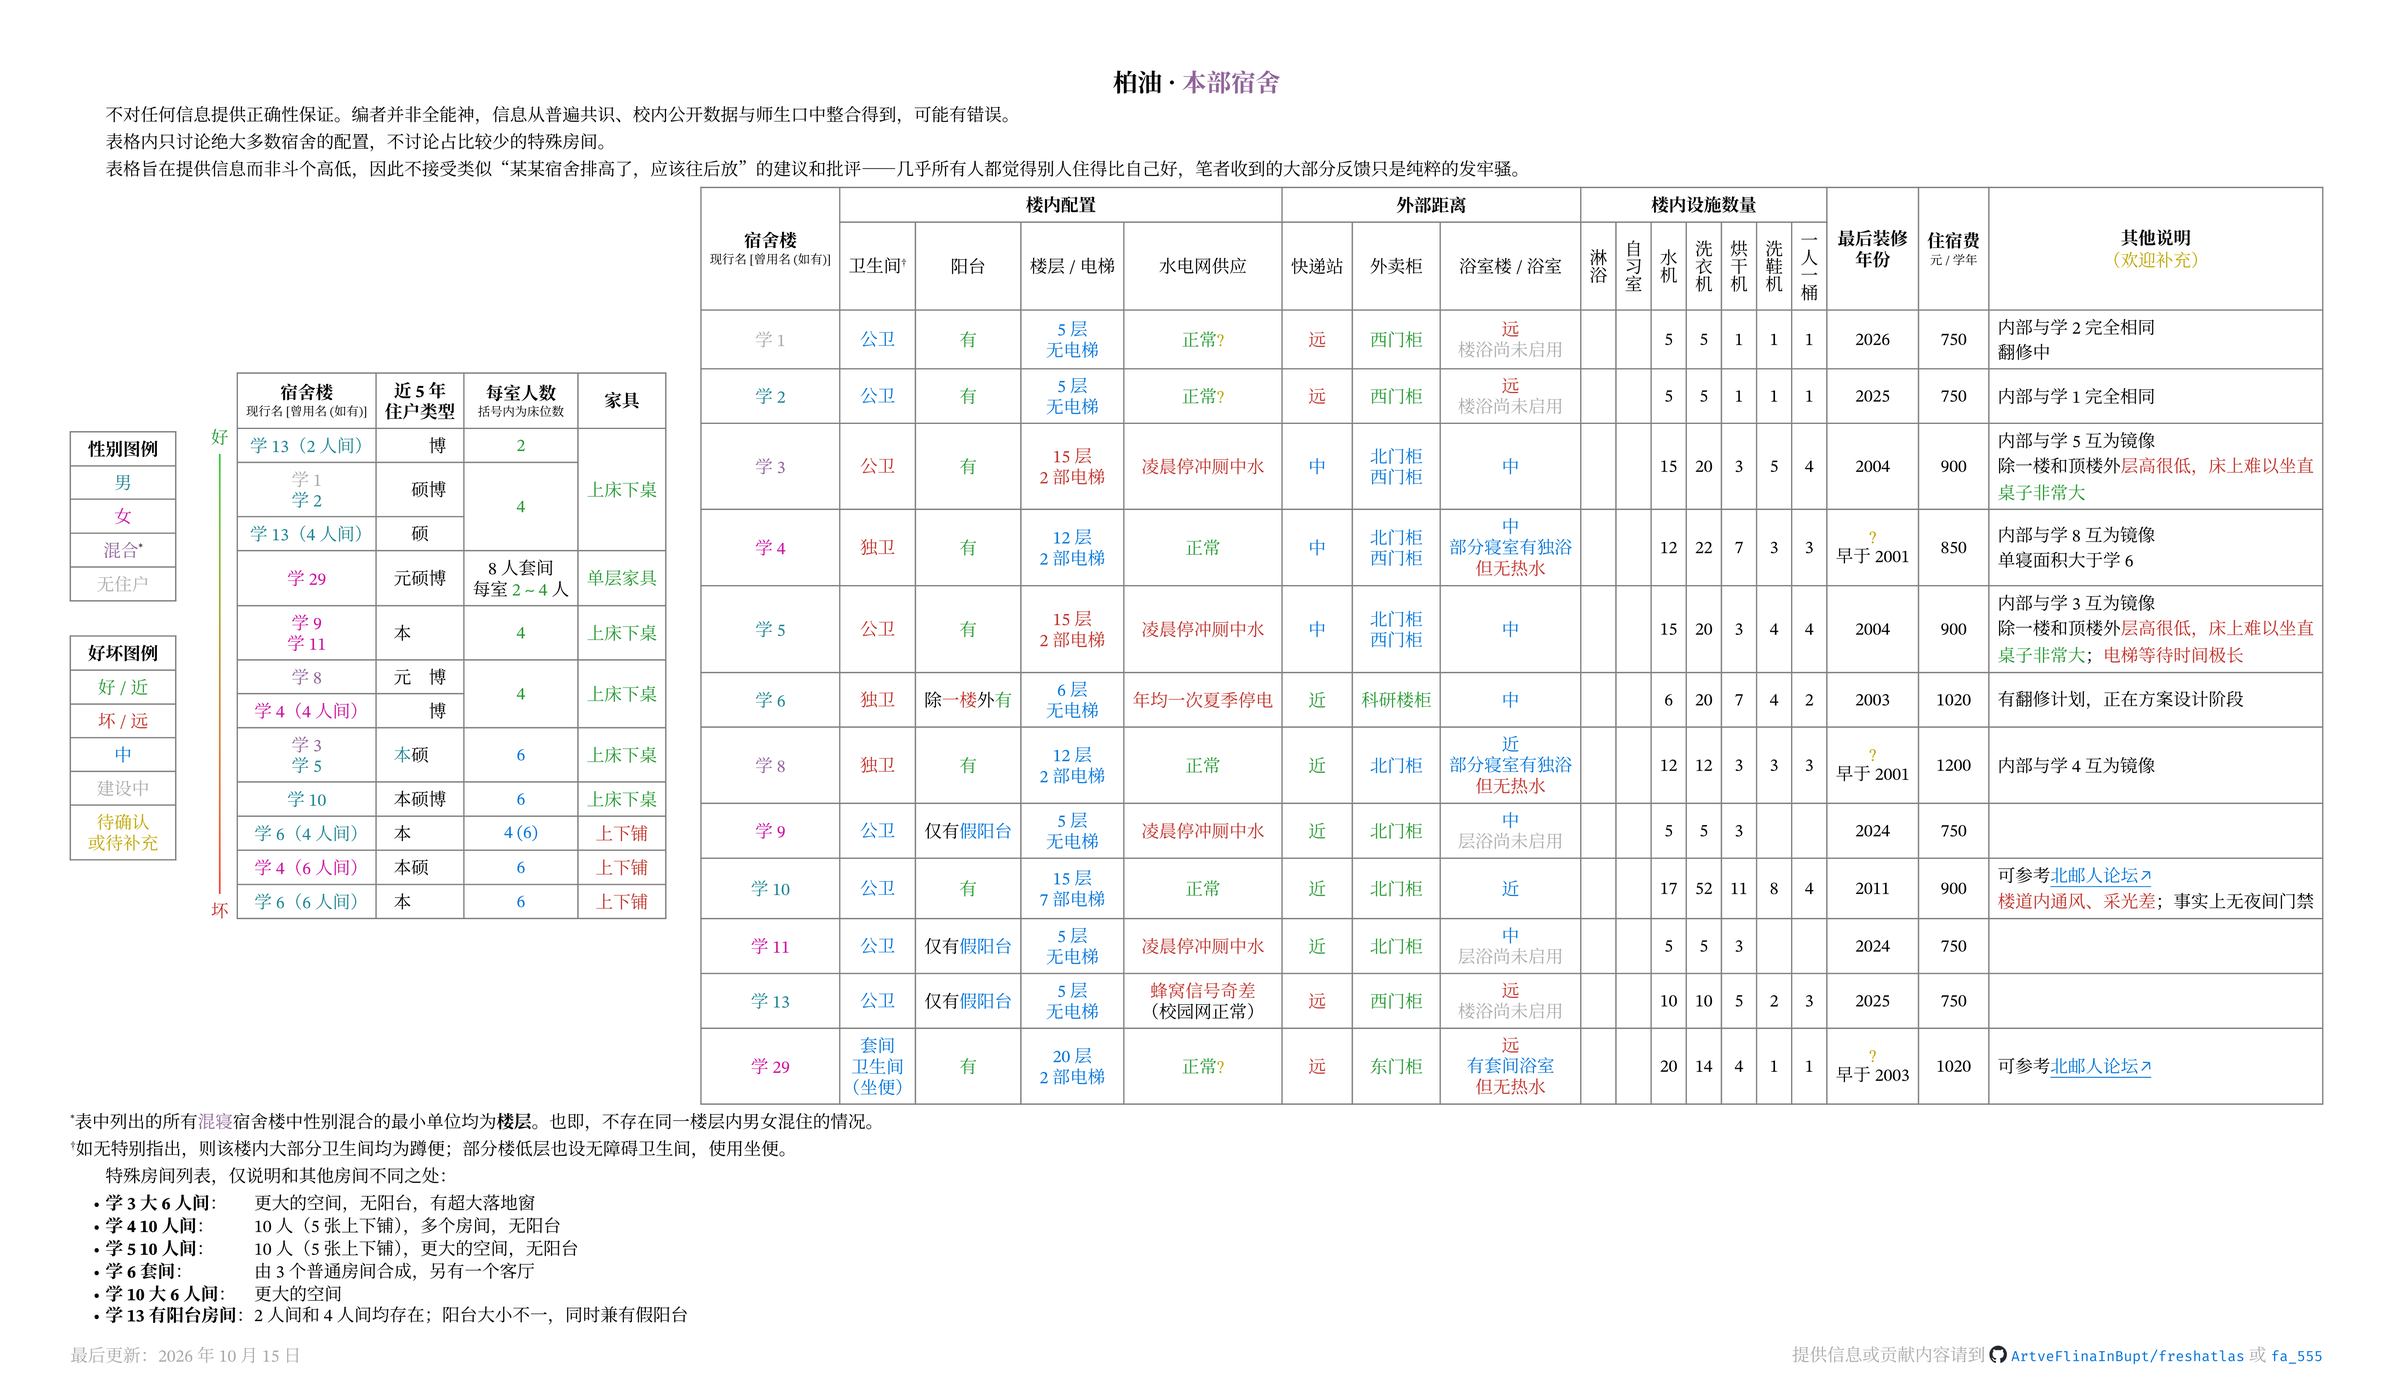
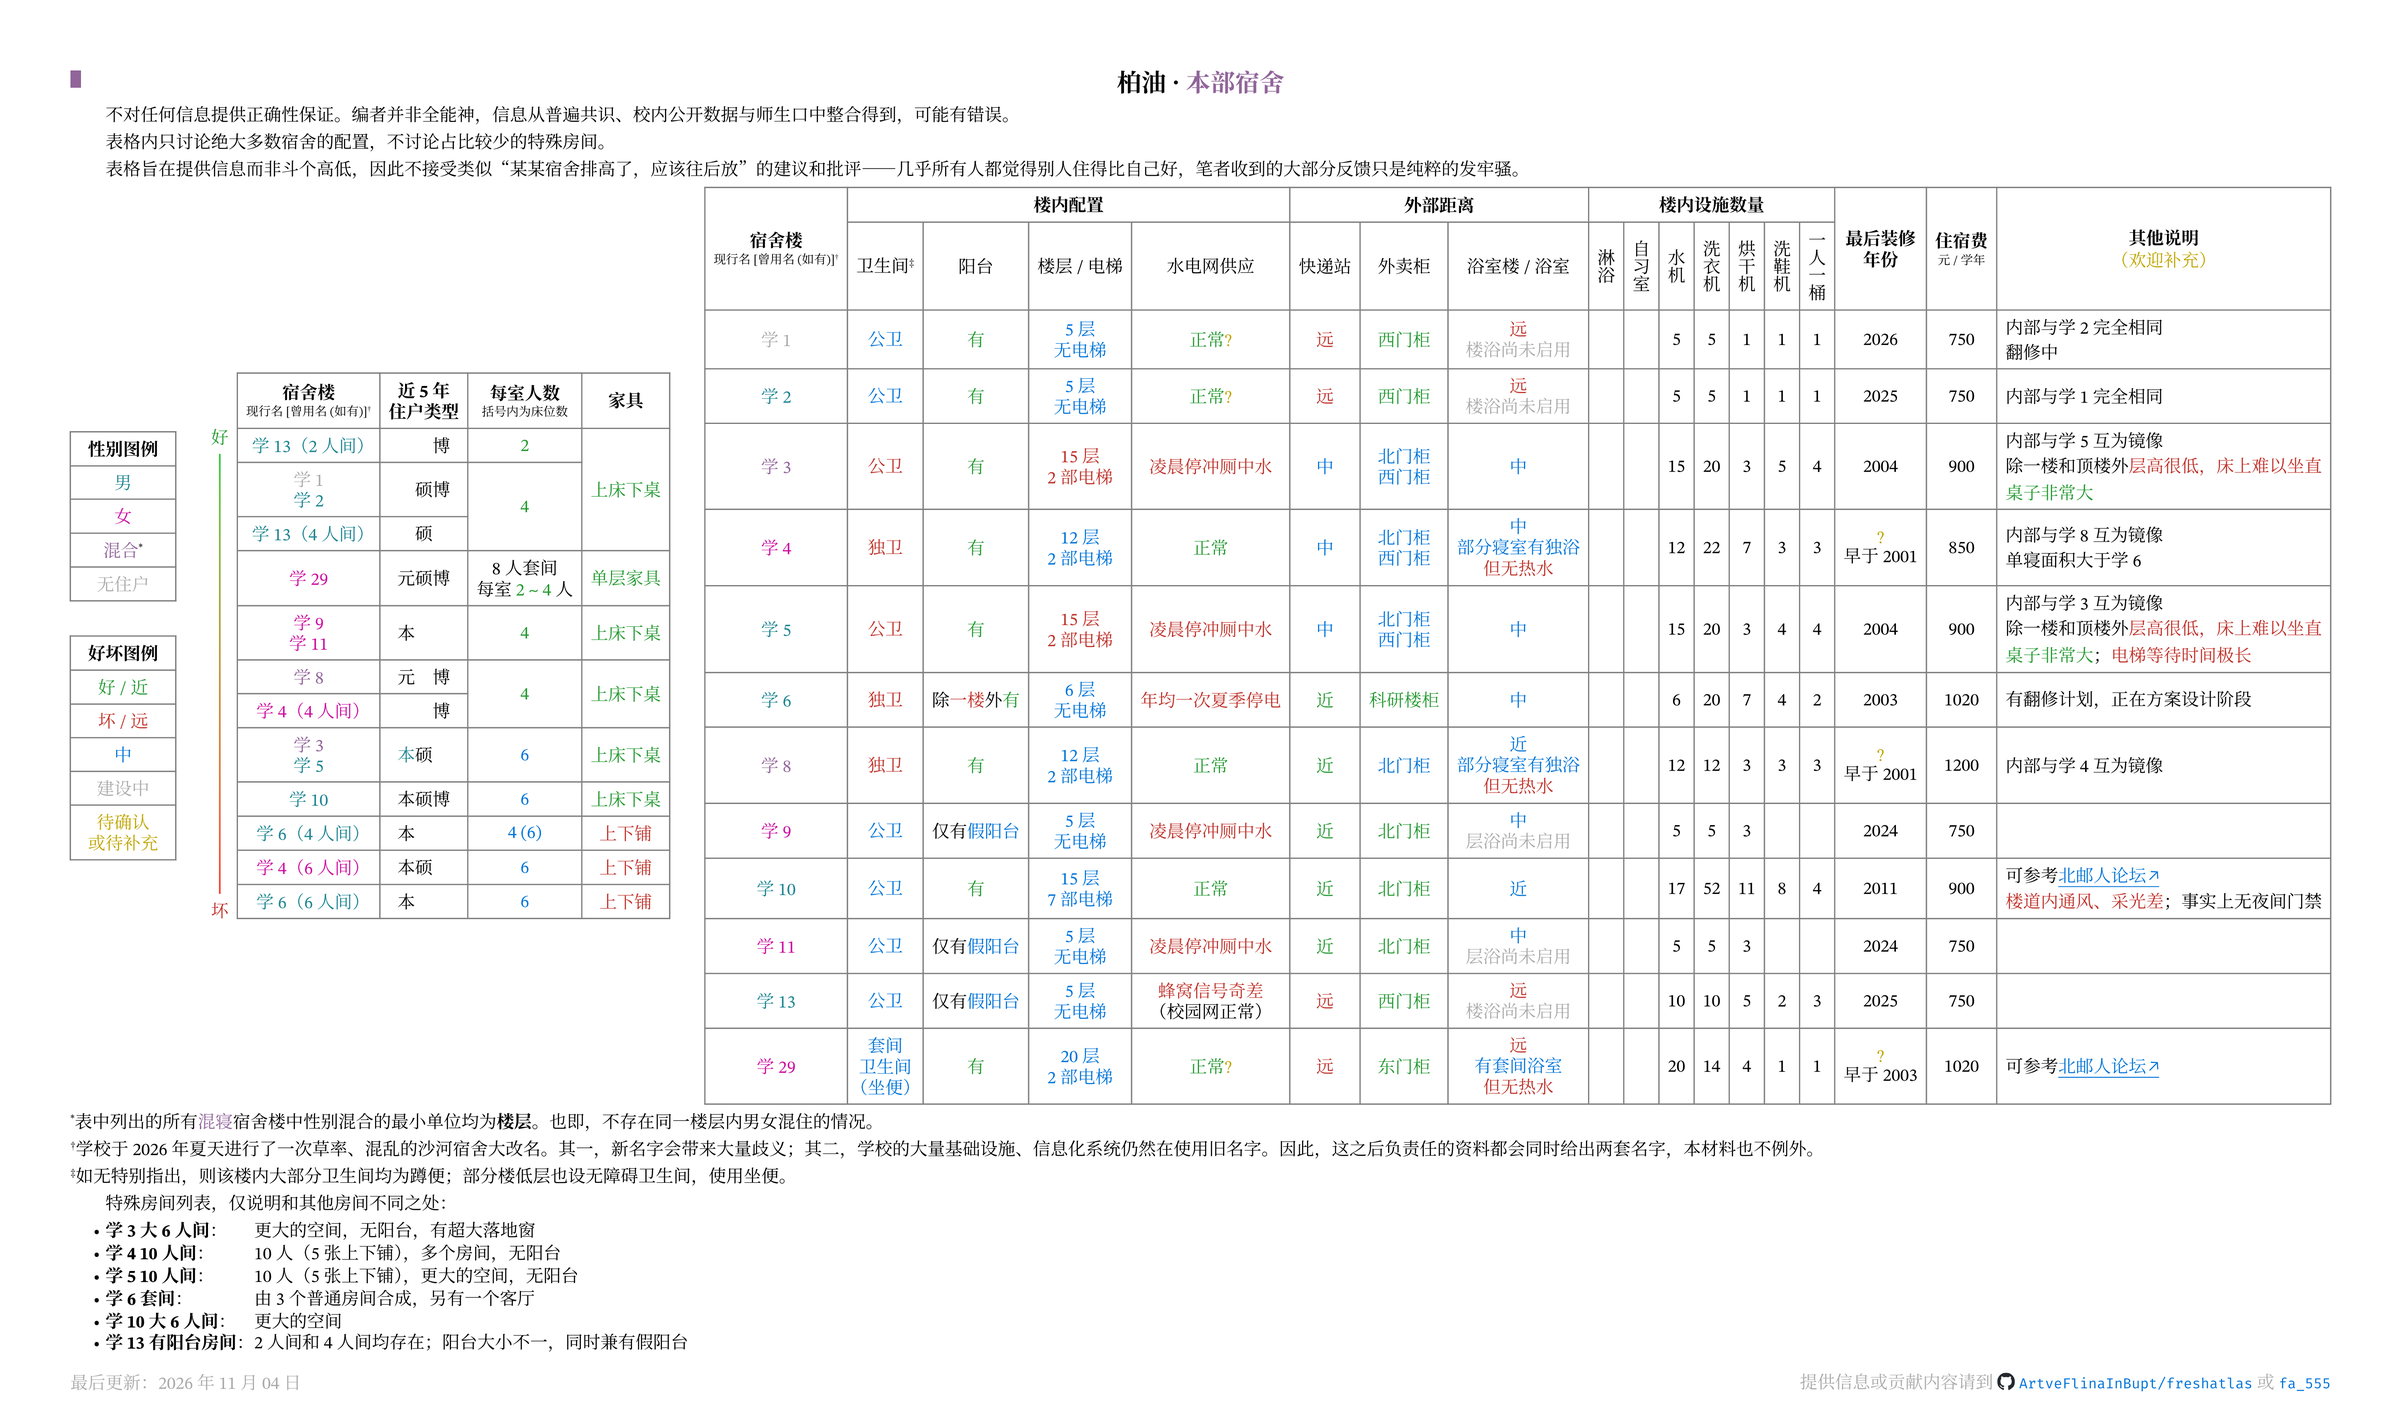
docs: 同步柏油图谱宿舍对比图（沙河 / 本部分图）
来源：https://github.com/ArtveFlinaInBupt/freshatlas/commit/c19195f24260d7327a329d284ffd04e331f41dee

diff --git a/src/content/docs/海淀校区/住宿条件.md b/src/content/docs/海淀校区/住宿条件.md
@@ -21,7 +21,7 @@ description: 住宿条件
 
 > 图片来源：[BUPT-freshatlas](https://github.com/ArtveFlinaInBupt/freshatlas)，原图含沙河、本部两校区，此处已拆分为仅本部部分。以 CC BY-NC-SA 4.0 提供。
 
-<!-- @byrdocs-bot 上图（海淀/本部宿舍逐楼对比）文字版，供无法读图的助手参考；信息以图片为准。图中含两张表：左侧“房型表格”纵向按“好→差”排序（左侧有好→坏渐变条）；右侧“楼宇表格”按楼号排列，逐项给出楼内配置、外部距离与设施数量。颜色含义已转为文字：(好)=好/近，(差)=坏/远，(中)=中，(建设中)=建设中/无住户（灰色），(待确认)=待确认或待补充；性别用“男/女/混”标注，“无住户”表示当前无人居住。脚注用 * † 标记。
+<!-- @byrdocs-bot 上图（海淀/本部宿舍逐楼对比）文字版，供无法读图的助手参考；信息以图片为准。图中含两张表：左侧“房型表格”纵向按“好→差”排序（左侧有好→坏渐变条）；右侧“楼宇表格”按楼号排列，逐项给出楼内配置、外部距离与设施数量。颜色含义已转为文字：(好)=好/近，(差)=坏/远，(中)=中，(建设中)=建设中/无住户（灰色），(待确认)=待确认或待补充；性别用“男/女/混”标注，“无住户”表示当前无人居住。脚注用 * † ‡ 标记。
 
 房型表格（从好到差；列：近 5 年住户类型 / 每室人数（括号内为床位数） / 家具）：
 1. 学 13（2 人间）（男）：博；2 人(好)；上床下桌(好)。
@@ -37,7 +37,7 @@ description: 住宿条件
 11. 学 4（6 人间）（女）：本硕；6 人(中)；上下铺(差)。
 12. 学 6（6 人间）（男）：本；6 人(中)；上下铺(差)。
 
-楼宇表格（列：卫生间† / 阳台 / 楼层与电梯 / 水电网供应 | 快递站 / 外卖柜 / 浴室楼或浴室 | 楼内设施数量：水机 / 洗衣机 / 烘干机 / 洗鞋机 / 一人一桶（淋浴、自习室两列本部均未填） | 最后装修年份 / 住宿费（元/学年） / 其他说明）：
+楼宇表格（列：卫生间‡ / 阳台 / 楼层与电梯 / 水电网供应 | 快递站 / 外卖柜 / 浴室楼或浴室 | 楼内设施数量：水机 / 洗衣机 / 烘干机 / 洗鞋机 / 一人一桶（淋浴、自习室两列本部均未填） | 最后装修年份 / 住宿费（元/学年） / 其他说明）：
 1. 学 1（无住户）：公卫(中)；有阳台(好)；5 层无电梯(中)；水电网正常(好，待确认)；快递站远(差)；外卖西门柜(好)；浴室远(差)，楼浴尚未启用(建设中)；水机 5，洗衣机 5，烘干机 1，洗鞋机 1，一人一桶 1；最后装修 2026；住宿费 750；说明：内部与学 2 完全相同；翻修中。
 2. 学 2（男）：公卫(中)；有阳台(好)；5 层无电梯(中)；水电网正常(好，待确认)；快递站远(差)；外卖西门柜(好)；浴室远(差)，楼浴尚未启用(建设中)；水机 5，洗衣机 5，烘干机 1，洗鞋机 1，一人一桶 1；最后装修 2025；住宿费 750；说明：内部与学 1 完全相同。
 3. 学 3（混）：公卫(差)；有阳台(好)；15 层 2 部电梯(差)；凌晨停冲厕中水(差)；快递站中(中)；外卖北门柜、西门柜(中)；浴室中(中)；水机 15，洗衣机 20，烘干机 3，洗鞋机 5，一人一桶 4；最后装修 2004；住宿费 900；说明：内部与学 5 互为镜像；除一楼和顶楼外层高很低、床上难以坐直(差)；桌子非常大(好)。
@@ -49,11 +49,12 @@ description: 住宿条件
 9. 学 10（男）：公卫(中)；有阳台(好)；15 层 7 部电梯(中)；水电网正常(好)；快递站近(好)；外卖北门柜(好)；浴室近(中)；水机 17，洗衣机 52，烘干机 11，洗鞋机 8，一人一桶 4；最后装修 2011；住宿费 900；说明：可参考北邮人论坛（https://bbs.byr.cn/#!article/Picture/3382014）；楼道内通风、采光差(差)；事实上无夜间门禁。
 10. 学 11（女）：公卫(中)；仅有假阳台(中)；5 层无电梯(中)；凌晨停冲厕中水(差)；快递站近(好)；外卖北门柜(好)；浴室中(中)，层浴尚未启用(建设中)；水机 5，洗衣机 5，烘干机 3，洗鞋机、一人一桶未填；最后装修 2024；住宿费 750；说明无。
 11. 学 13（男）：公卫(中)；仅有假阳台(中)；5 层无电梯(中)；蜂窝信号奇差(差)（校园网正常）；快递站远(差)；外卖西门柜(好)；浴室远(差)，楼浴尚未启用(建设中)；水机 10，洗衣机 10，烘干机 5，洗鞋机 2，一人一桶 3；最后装修 2025；住宿费 750；说明无。
-12. 学 29（女）：套间卫生间（坐便）(中)；有阳台(好)；20 层 2 部电梯(中)；水电网正常(好，待确认)；快递站远(差)；外卖东门柜(好)；浴室远(差)，有套间浴室(中)但无热水；水机 20，洗衣机 14，烘干机 4，洗鞋机 1，一人一桶 1；最后装修早于 2003(待确认)；住宿费 1020；说明：可参考北邮人论坛（https://bbs.byr.cn/#!article/Picture/3377378）。
+12. 学 29（女）：套间卫生间（坐便）(中)；有阳台(好)；20 层 2 部电梯(中)；水电网正常(好，待确认)；快递站远(差)；外卖东门柜(好)；浴室远(差)，有套间浴室(中)但无热水(差)；水机 20，洗衣机 14，烘干机 4，洗鞋机 1，一人一桶 1；最后装修早于 2003(待确认)；住宿费 1020；说明：可参考北邮人论坛（https://bbs.byr.cn/#!article/Picture/3377378）。
 
 脚注：
 * 表中列出的所有混寝宿舍楼中性别混合的最小单位均为楼层。也即，不存在同一楼层内男女混住的情况。
-† 如无特别指出，则该楼内大部分卫生间均为蹲便；部分楼低层也设无障碍卫生间，使用坐便。
+† 学校于 2026 年夏天进行了一次草率、混乱的沙河宿舍大改名。其一，新名字会带来大量歧义；其二，学校的大量基础设施、信息化系统仍然在使用旧名字。因此，这之后负责任的资料都会同时给出两套名字，本材料也不例外。
+‡ 如无特别指出，则该楼内大部分卫生间均为蹲便；部分楼低层也设无障碍卫生间，使用坐便。
 
 特殊房间（仅说明与其他房间不同之处）：
 - 学 3 大 6 人间：更大的空间，无阳台，有超大落地窗。

diff --git a/src/content/docs/沙河校区/住宿条件.md b/src/content/docs/沙河校区/住宿条件.md
@@ -25,7 +25,7 @@ description: 住宿条件
 
 > 图片来源：[BUPT-freshatlas](https://github.com/ArtveFlinaInBupt/freshatlas)，原图含沙河、本部两校区，此处已拆分为仅沙河部分。以 CC BY-NC-SA 4.0 提供。
 
-<!-- @byrdocs-bot 上图（沙河宿舍逐楼对比）文字版，供无法读图的助手参考；信息以图片为准。图中含两张表：左侧“房型表格”纵向按“好→差”排序（左侧有好→坏渐变条）；右侧“楼宇表格”按楼栋区域排列，逐项给出楼内配置、外部距离与设施数量。颜色含义已转为文字：(好)=好/近，(差)=坏/远，(中)=中，(建设中)=建设中/无住户（灰色，未评好坏），(待确认)=待确认或待补充；性别用“男/女”标注，“无住户”表示尚未入住。脚注用 * † ‡ § 标记。
+<!-- @byrdocs-bot 上图（沙河宿舍逐楼对比）文字版，供无法读图的助手参考；信息以图片为准。图中含两张表：左侧“房型表格”纵向按“好→差”排序（左侧有好→坏渐变条）；右侧“楼宇表格”按楼栋区域排列，逐项给出楼内配置、外部距离与设施数量。颜色含义已转为文字：(好)=好/近，(差)=坏/远，(中)=中，(建设中)=建设中/无住户（灰色，未评好坏），(待确认)=待确认或待补充；性别用“男/女”标注，“无住户”表示尚未入住。脚注用 * † ‡ § ¶ 标记。
 
 房型表格（从好到差；列：近 5 年住户类型 / 每室人数（括号内为床位数） / 家具）：
 1. 雁西 1～6 号楼 [研究生 A1、A2、B1、B2、B3、B4]（无住户，整行建设中）：分两类房型：博，2 人，单层家具；本硕，4 人，上床下桌。
@@ -34,9 +34,9 @@ description: 住宿条件
 4. 雁北 6 号楼 [雁北 E]、雁北 5 号楼 [雁北 D2]（男）：本硕博；4 人(好)；上床下桌(好)。
 5. 雁北 4 号楼 [雁北 D1]、雁北 3 号楼 [雁北 C]、雁北 2 号楼 [雁北 B]、雁北 1 号楼 [雁北 A]（男）：本硕博；4 人(好)；上床下桌(好)。
 
-楼宇表格（列：卫生间† / 阳台 / 楼层与电梯 / 水电网供应 | 快递站 / 外卖柜 / 浴室楼或浴室 | 楼内设施数量：淋浴 / 自习室 / 水机 / 洗衣机 / 烘干机 / 洗鞋机 / 一人一桶 | 最后装修年份 / 住宿费（元/学年） / 其他说明）：
-- 雁北、雁南（S2～S6）共同配置：卫生间为独卫 + 公卫(好)‡§；有阳台(好)；水电网正常(好)；外卖柜为小南门柜(差)；浴室为层浴(好)‡§；洗衣机、烘干机、洗鞋机、一人一桶数量未填。
-- 楼层与电梯：雁北 A、D1、B、C 为 6 层、部分有电梯(中)§；雁北 D2、E 及雁南 S2～S6 为 6 层、有电梯(好)。
+楼宇表格（列：卫生间‡ / 阳台 / 楼层与电梯 / 水电网供应 | 快递站 / 外卖柜 / 浴室楼或浴室 | 楼内设施数量：淋浴 / 自习室 / 水机 / 洗衣机 / 烘干机 / 洗鞋机 / 一人一桶 | 最后装修年份 / 住宿费（元/学年） / 其他说明）：
+- 雁北、雁南（S2～S6）共同配置：卫生间为独卫 + 公卫(好)§¶；有阳台(好)；水电网正常(好)；外卖柜为小南门柜(差)；浴室为层浴(好)§¶；洗衣机、烘干机、洗鞋机、一人一桶数量未填。
+- 楼层与电梯：雁北 A、D1、B、C 为 6 层、部分有电梯(中)¶；雁北 D2、E 及雁南 S2～S6 为 6 层、有电梯(好)。
 - 快递站：雁北 A、D1、B、C、D2、E 为中(中)；雁南 S2～S6 为近(好)。
 1. 雁北 1 号楼 [雁北 A] + 雁北 4 号楼 [雁北 D1]（男）：淋浴 78，自习室 10，水机 6；最后装修 2014；住宿费 1200；说明：单寝面积略小于雁南。
 2. 雁北 2 号楼 [雁北 B] + 雁北 3 号楼 [雁北 C]（男）：淋浴 78，自习室 4，水机 8；最后装修 2014；住宿费 1200；说明同上。
@@ -49,10 +49,11 @@ description: 住宿条件
 9. 雁西 1～6 号楼 [研究生 A1、A2、B1、B2、B3、B4]（无住户，建设中）：卫生间(待确认)；有阳台(建设中)；10 层(待确认)、有电梯(待确认)；水电网正常(待确认)；快递站中(建设中)；外卖柜小南门柜(建设中)；浴室(待确认)；设施数量均未填；最后装修 2026；住宿费 1200；说明：本学期即将投入使用；名为研究生公寓，实际上不只有研究生居住。
 
 脚注：
-* 学校于 2026 年夏天进行了一次草率、混乱的沙河宿舍大改名。其一，新名字会带来大量歧义；其二，学校的大量基础设施、信息化系统仍然在使用旧名字。因此图中同时给出两套名字：现行名 [曾用名]。
-† 如无特别指出，则该楼内大部分卫生间均为蹲便；部分楼低层也设无障碍卫生间，使用坐便。
-‡ 雁北 D2、E 楼为一个区域，内部部分连通，共用电梯。D2 楼借用 E 楼公卫、水房、浴室，可能需要前往其他层。
-§ 雁北 A、B、C、D1 楼为一个区域，内部部分连通。该区域两部电梯均位于 D1 部分，A、B、C 楼需要借道；A、B 二楼与 A 六楼无法通过电梯到达，需要步行一层；B 楼和 D 楼借用位于 A 楼和 C 楼的各一套公卫、水房、浴室，可能需要前往其他层。
+* 表中列出的所有混寝宿舍楼中性别混合的最小单位均为楼层。也即，不存在同一楼层内男女混住的情况。
+† 学校于 2026 年夏天进行了一次草率、混乱的沙河宿舍大改名。其一，新名字会带来大量歧义；其二，学校的大量基础设施、信息化系统仍然在使用旧名字。因此，这之后负责任的资料都会同时给出两套名字，本材料也不例外。
+‡ 如无特别指出，则该楼内大部分卫生间均为蹲便；部分楼低层也设无障碍卫生间，使用坐便。
+§ 雁北 D2、E 楼为一个区域，内部部分连通，共用电梯。D2 楼借用 E 楼公卫、水房、浴室，可能需要前往其他层。
+¶ 雁北 A、B、C、D1 楼为一个区域，内部部分连通。该区域两部电梯均位于 D1 部分，A、B、C 楼需要借道；A、B 二楼与 A 六楼无法通过电梯到达，需要步行一层；B 楼和 D 楼借用位于 A 楼和 C 楼的各一套公卫、水房、浴室，可能需要前往其他层。
 -->
 
 ## 宿舍内环境
